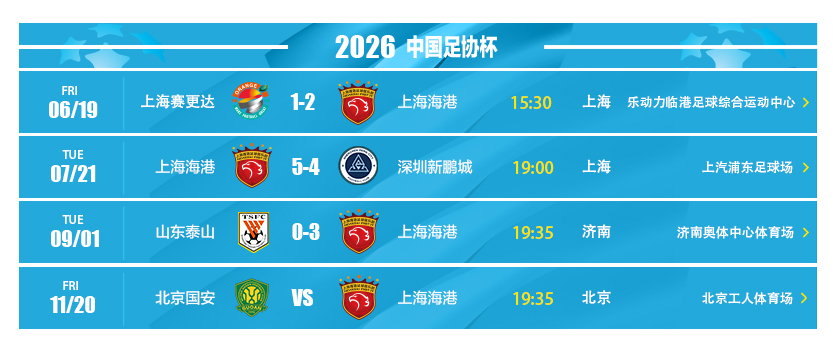
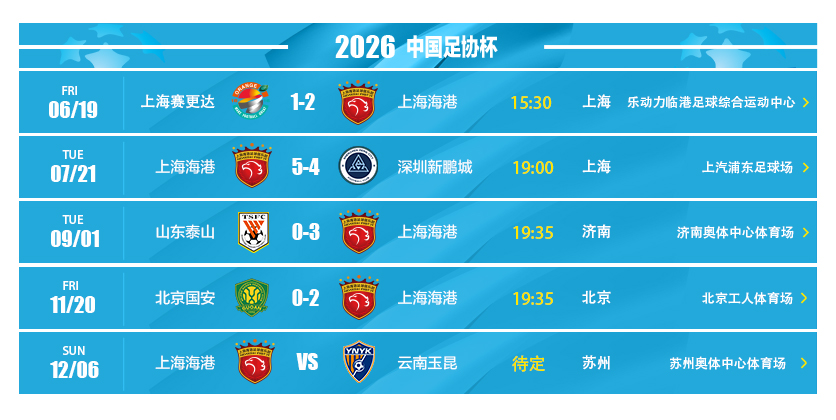
chore: refresh fixtures cache [!] 官方赛程图已更新，请核对 official/schedules 与 data/manual_matches.json

diff --git a/official/schedules/UPDATE_NOTICE.md b/official/schedules/UPDATE_NOTICE.md
@@ -1,0 +1,5 @@
+# ⚠ 官方赛程图已更新
+
+俱乐部官网的官方赛程图发生变化：**足协杯**。
+
+请查看本目录下对应 jpg，核对并更新 `data/manual_matches.json`（亚冠/足协杯）。可配合懂球帝、微博 @中国足协杯、transfermarkt 等渠道交叉验证。
